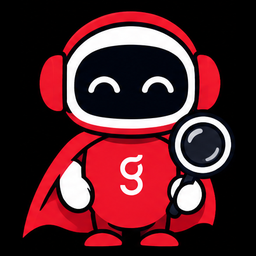
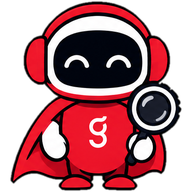
Corrige Telegram, simulação de dia novo, mascotes

diff --git a/guardiao/sala.html b/guardiao/sala.html
@@ -64,8 +64,8 @@ svg.wires{position:absolute;inset:0;width:100%;height:100%;pointer-events:none;z
 .agent.sent{width:min(560px,100%);margin:0 auto;min-height:0}
 .agent.on{border-color:var(--c);box-shadow:0 0 0 1px var(--c),0 12px 30px -18px rgba(17,17,17,.35)}
 .ahead{display:flex;align-items:center;gap:10px}
-.av{width:56px;height:56px;border-radius:14px;background:#000;flex:none;transition:transform .35s cubic-bezier(.16,1,.3,1)}
-.agent.on .av{transform:translateY(-3px) scale(1.06);box-shadow:0 8px 18px -8px var(--c)}
+.av{width:48px;height:48px;object-fit:contain;flex:none;transition:transform .35s cubic-bezier(.16,1,.3,1)}
+.agent.on .av{transform:translateY(-2px) scale(1.08)}
 .an{font-weight:700;font-size:14px} .ar{color:var(--mut);font-size:11px}
 .agent:not(.sent) .st{position:absolute;top:-11px;right:12px;border:1px solid var(--line2);background:#fff}
 .agent.on:not(.sent) .st{border-color:var(--c)}
@@ -308,6 +308,7 @@ function run(e){
   }
   else if(e.t==='handoff'){ setOn(e.para,'recebeu caso'); wires([e.de,e.para]); log(e.de,'→ '+e.para, e.texto); }
   else if(e.t==='lote_fecha'){
+    [...$('#grid').children].forEach(c=>{ if(loteAtual && loteAtual.flag[c.dataset.t]) c.className='bad'; });
     S.ok+=e.ok_valor; S.lotesFeitos++; setOn('Sentinela','liberando lote'); wires();
     type($('ag-Sentinela').querySelector('.think'), `${e.lote} conferido: ${e.ok} títulos seguem para o banco (${brl(e.ok_valor)}), ${e.retidos} retidos${e.perda?` — ${brl(e.perda)} que sairiam indevidamente`:''}.`, dur*0.6/speed);
     log('Sentinela','liberar_lote',`${e.lote}: ${e.ok} ok · ${e.retidos} retidos`);

diff --git a/web/app.js b/web/app.js
@@ -48,7 +48,9 @@ function render() {
   }
   $('#quadro').style.setProperty('--dias', dias.length);
   $('#quadro').innerHTML = q;
-  $('#conferido').textContent = `Última conferência: ${E.conferido_em || '—'} · confere sozinho de hora em hora`;
+  $('#conferido').textContent = E.simulacao
+    ? `Dia simulado: ${E.simulacao.injetados} problemas novos sorteados, ${E.simulacao.pegos} pegos pelos agentes · conferido ${E.conferido_em}`
+    : `Última conferência: ${E.conferido_em || '—'} · confere sozinho de hora em hora`;
   renderDec(); renderCasos(); renderLotes(); renderConfia();
 }
 
@@ -238,4 +240,14 @@ $('#btnConferir').onclick = async () => {
 $('#btnResumo').onclick = async () => {
   const r = await fetch('/api/resumo/telegram', {method: 'POST'}); const j = await r.json();
   toast(r.ok ? 'Resumo enviado no Telegram.' : (j.detail || 'Não deu para enviar'));
+};
+
+$('#btnSimular').onclick = async () => {
+  const b = $('#btnSimular'); b.classList.add('loading'); b.textContent = 'Sorteando problemas novos…';
+  const r = await fetch('/api/simular', {method: 'POST'}); const j = await r.json();
+  b.classList.remove('loading'); b.textContent = 'Simular um dia novo';
+  if (!r.ok) return toast(j.detail || 'Não deu para simular');
+  $('#sala').removeAttribute('src');
+  toast(`Dia novo: ${j.injetados} problemas sorteados em outros fornecedores. Os agentes pegaram ${j.pegos}.`);
+  carregar();
 };

diff --git a/web/index.html b/web/index.html
@@ -52,6 +52,7 @@
   <div class="sec ops card">
     <span class="mut" id="conferido">—</span>
     <button class="btn sm" id="btnConferir">Conferir agora</button>
+    <button class="btn sm" id="btnSimular">Simular um dia novo</button>
     <button class="btn sm" id="btnResumo">Mandar resumo do dia no Telegram</button>
     <a class="btn sm" href="/api/auditoria.csv">Baixar relatório de auditoria</a>
   </div>

diff --git a/web/app.css b/web/app.css
@@ -224,4 +224,4 @@ a.btn{text-decoration:none;display:inline-block}
 #gtip.on{opacity:1}
 @media(max-width:900px){.passos{grid-template-columns:1fr}.seta{display:none}.cons{grid-template-columns:1fr}}
 
-.flow .masc{width:72px;height:72px;border-radius:16px;background:#000;margin-bottom:6px}
+.flow .masc{width:44px;height:44px;object-fit:contain;margin-bottom:4px}

diff --git a/servidor.py b/servidor.py
@@ -39,9 +39,9 @@ ESTADO: dict = {}
 _lock = threading.Lock()
 
 
-def iniciar(repetir_decisoes: list | None = None):
+def iniciar(repetir_decisoes: list | None = None, base=None):
     with _lock:
-        b = carregar()
+        b = base if base is not None else carregar()
         ESTADO["b"] = b
         ESTADO["g"] = Guardiao(b).executar()
         ESTADO["caixa"] = leitor_caixa.ler(b, usar_ia=False)
@@ -130,6 +130,7 @@ def estado():
             "por_tipo": [{"tipo": L.tipo(k)["titulo"], "cor": L.tipo(k)["cor"], **v} for k, v in p["por_tipo"].items()],
             "casos": casos, "lotes": lotes, "validacao": val, "log": log[-400:],
             "humanos": ESTADO["eventos_humanos"][-30:], "conferido_em": ESTADO.get("conferido_em"),
+            "simulacao": ESTADO.get("simulacao"),
             "telegram": {"token": bool(tg.token()), "chat": bool(tg.chat_id() or ESTADO.get("chat"))},
             "ia": {"ativa": ia.disponivel(), "uso": ia.resumo_uso(), "linhas": ia.USO["linhas"][-8:]},
             "causa_raiz": [asdict(a) for a in g.log if a.ferramenta in ("propor_correcao_processo", "abrir_incidente")]}
@@ -212,6 +213,7 @@ def explicar(caso_id: str):
 
 @app.post("/api/reiniciar")
 def reiniciar():
+    ESTADO.pop("simulacao", None)
     iniciar()
     return {"ok": True}
 
@@ -219,11 +221,30 @@ def reiniciar():
 @app.post("/api/conferir")
 def conferir():
     """Relê os arquivos dos sistemas e confere tudo de novo, mantendo as decisões já tomadas."""
+    ESTADO.pop("simulacao", None)
     try:
         iniciar(list(ESTADO.get("eventos_humanos", [])))
     except Exception as e:
         raise HTTPException(400, f"Não consegui ler os dados: {e}")
     return {"ok": True, "conferido_em": ESTADO["conferido_em"], "casos": len(ESTADO["g"].casos)}
+
+
+@app.post("/api/simular")
+def simular():
+    """Dia novo: coloca 7 problemas novos em fornecedores e valores sorteados e os agentes conferem de novo.
+    Mostra que o resultado depende dos dados, não de respostas decoradas."""
+    import random
+    import validar
+    from guardiao.deteccao import varrer
+    base = carregar()
+    seed = random.randint(1000, 999999)
+    proibidos = {a.fornecedor_id for a in varrer(base)}
+    novo, esperado = validar.injetar(base, seed, proibidos)
+    iniciar(base=novo)
+    achados = {c.titulo_id for c in ESTADO["g"].casos}
+    pegos = sum(1 for t in esperado if t in achados)
+    ESTADO["simulacao"] = {"seed": seed, "injetados": len(esperado), "pegos": pegos}
+    return ESTADO["simulacao"] | {"casos": len(ESTADO["g"].casos)}
 
 
 @app.get("/api/resumo")

diff --git a/guardiao/telegram.py b/guardiao/telegram.py
@@ -33,8 +33,15 @@ def _call(metodo: str, **params):
     tk = token()
     if not tk:
         raise RuntimeError("TELEGRAM_TOKEN não configurado")
-    r = requests.post(API.format(token=tk, metodo=metodo), json=params, timeout=20)
-    r.raise_for_status()
+    espera = int(params.get("timeout", 0)) + 15          # long polling: o HTTP espera mais que o Telegram
+    try:
+        r = requests.post(API.format(token=tk, metodo=metodo), json=params, timeout=espera)
+    except requests.RequestException as e:
+        raise ConnectionError(f"sem resposta do Telegram ({type(e).__name__})") from None   # nunca mostra a URL com o token
+    if r.status_code == 409:
+        raise ConnectionError("outro programa já está lendo este bot (feche o bot.py antigo; o servidor.py já liga o bot)")
+    if not r.ok:
+        raise ConnectionError(f"Telegram respondeu {r.status_code}: {r.json().get('description', '')}")
     return r.json()
 
 

diff --git a/bot.py b/bot.py
@@ -77,7 +77,7 @@ def main():
         try:
             res = tg._call("getUpdates", timeout=25, offset=offset).get("result", [])
         except Exception as e:
-            print("Sem conexão com o Telegram agora; tentando de novo...", type(e).__name__)
+            print("Telegram:", e, "— tentando de novo em 3s")
             time.sleep(3)
             continue
         for u in res:
